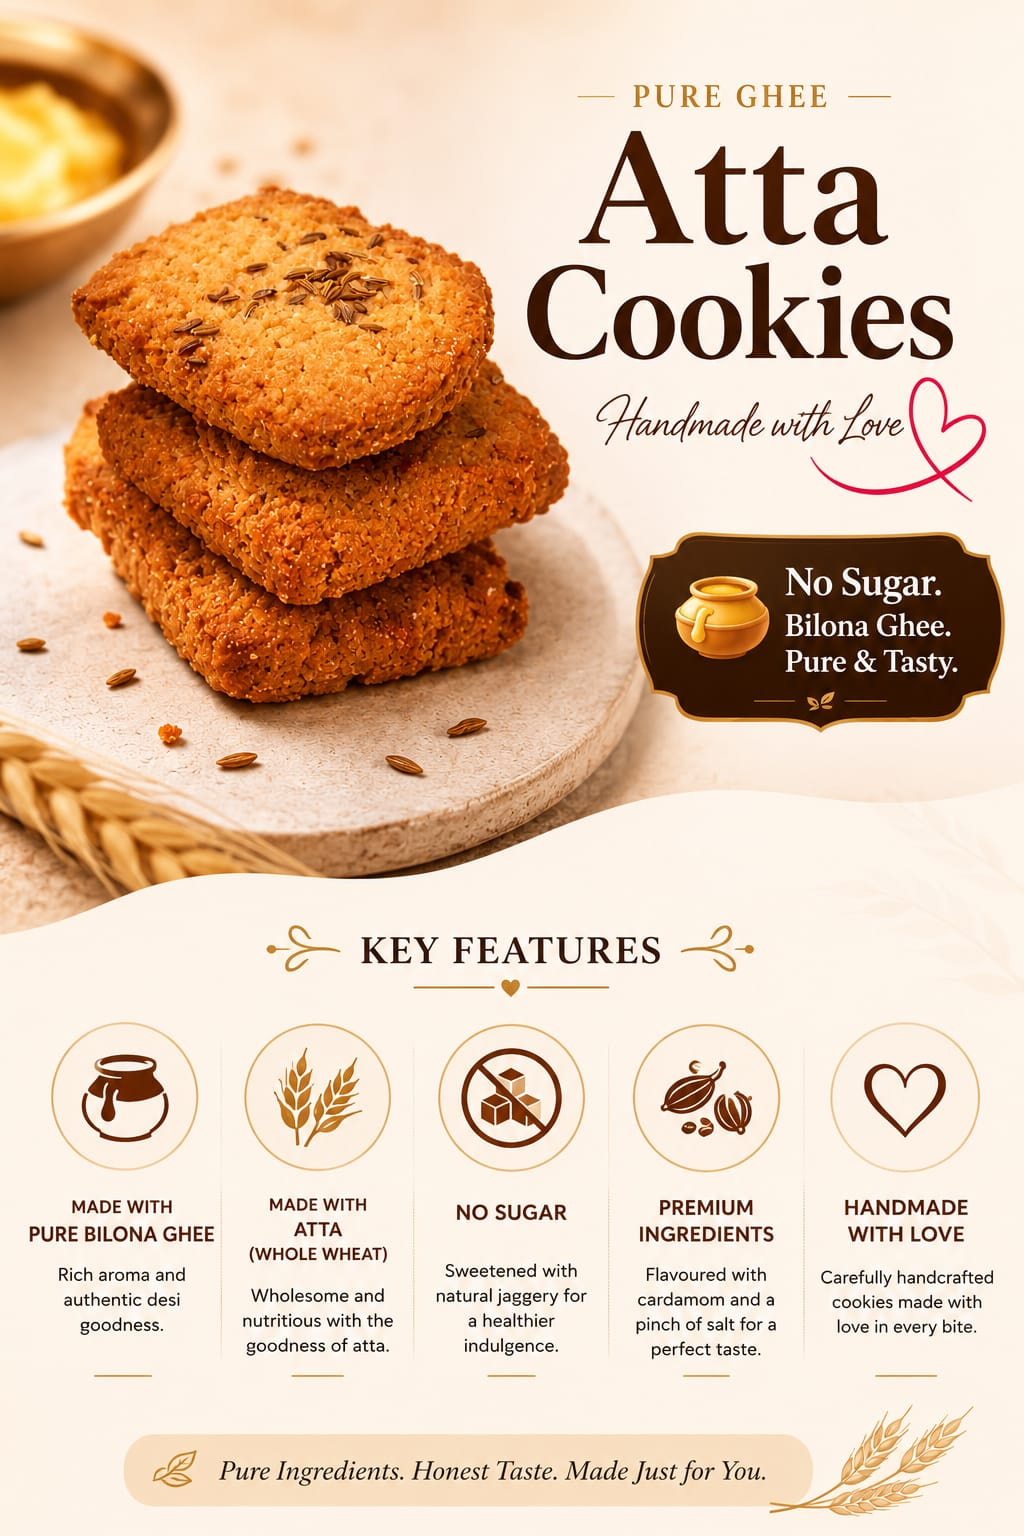
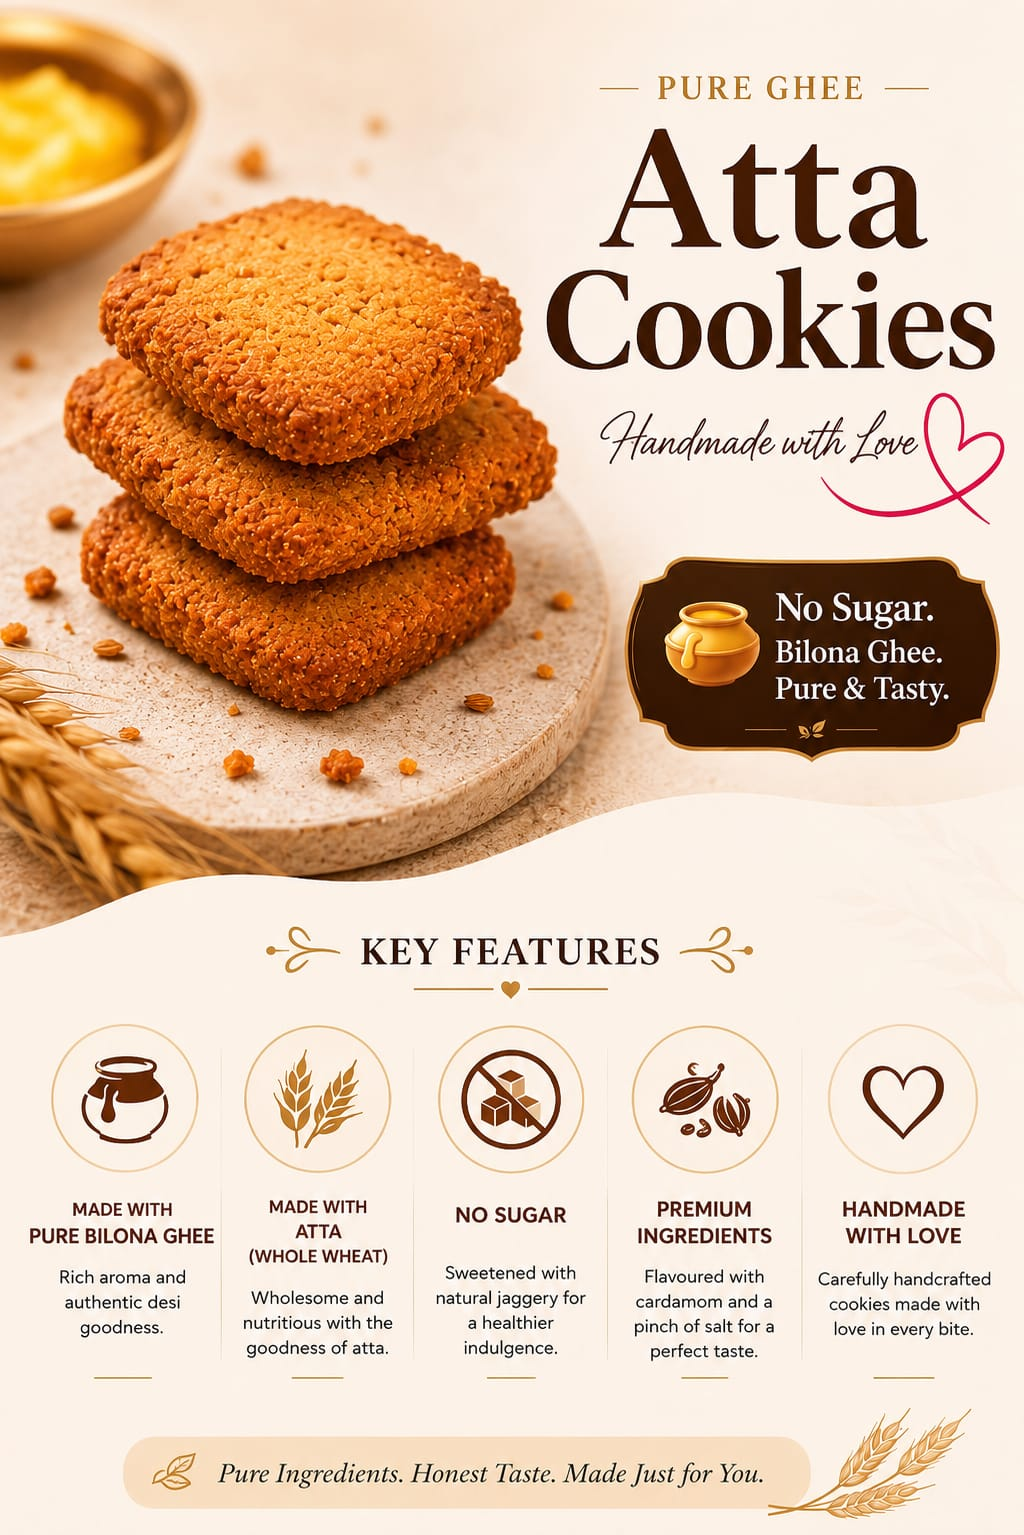
Update Atta cookies product images

diff --git a/PROJECT-STATE.md b/PROJECT-STATE.md
@@ -1,5 +1,5 @@
 # CaneCreme — Project State
-> Last updated: Session 80 fixed admin UTC order timestamp parsing (2026-06-26)
+> Last updated: Session 82 replaced live Atta Cookies JPG asset contents from new user JPEGs (2026-07-09)
 > Rule: Every agent MUST update this file before context fills. No assumptions. No hallucinations. Only verified facts.
 
 ---
@@ -409,7 +409,7 @@ How to add product images correctly:
 | Beet Bites | cf3d5ba7-177f-4033-9ab4-598201bf6cfd | beet-bites-1 → 4 (4 images) | ₹149 |
 | Broccoli Bites | 2df1da36-c102-46a6-8f30-cf169499cf71 | broccoli-bites-1 → 4 (4 images) | ₹149 |
 | Soya Bites | 863f3532-45f8-4c1b-bcfb-2bdb27d05c96 | soya-bites-1 → 4 (4 images) | (check DB) |
-| Pure Ghee Atta Cookies | a494afdd-6bff-44a0-9913-6615badba224 | atta-cookies-1 → 4 (4 images) | ₹229 |
+| Pure Ghee Atta Cookies | a494afdd-6bff-44a0-9913-6615badba224 | public override now uses atta-cookies-2.jpeg and atta-cookies-3.jpeg; older DB may still reference atta-cookies-1 → 4 | ₹229 |
 | Powerbite Multigrain Cookies | 7caa3e8d-6ab3-4fe9-878f-3e4f9a882109 | powerbite-1 → 4 (4 images) | ₹275 |
 | Chocochip Oatmeal Cookies | ec95d67c-5f95-4392-a127-f295dd071ea4 | chocochip-1 → 4 (4 images) | ₹275 |
 
@@ -418,6 +418,7 @@ How to add product images correctly:
 - broccoli-bites-1.jpg → broccoli-bites-4.jpg
 - soya-bites-1.jpg → soya-bites-4.jpg
 - atta-cookies-1.jpg → atta-cookies-4.jpg
+- atta-cookies-2.jpeg and atta-cookies-3.jpeg — new Pure Ghee Atta Cookies public website images added locally on 2026-07-09; `js/products.js`, `product.html`, and cart suggestions override this product by exact name to use these two assets.
 - powerbite-1.jpg → powerbite-4.jpg
 - chocochip-1.jpg → chocochip-4.jpg
 - galeto-1.jpeg, galeto-2.jpeg, galeto-3.jpeg (JPEG format)
@@ -579,3 +580,5 @@ How to add product images correctly:
 | Session 78 | 2026-06-26 | User reported Mohini did not receive order email at `[email redacted]`. Read live orders through `admin-orders`; Mohini order `163c21fe-a549-45da-9a9b-947f738f3cbf` had correct real email and COD/processing status. Manually resent order confirmation through `send-order-email`; Resend accepted it with email ID `28ea2976-66aa-4cda-ad91-9fc123567019`, sent to Mohini and BCC `[email redacted]`. Hardened `confirm-cod-order` and `confirm-paid-order` with `sendOrderEmailWithRetry` helper so automatic order emails retry up to 3 times before returning. Redeployed both confirmation functions to Supabase project `qfphvsyidbyhbyeyigrh`. |
 | Session 79 | 2026-06-26 | User requested checkout email no longer be optional after mobile lookup auto-filled details. Published the local Smart Checkout work plus mandatory email correction: `checkout.html` now opens the Email/city details disclosure, labels email as required, adds `required` to `#c-email`, and cache-busts to `js/checkout.js?v=15`; `js/checkout.js` now requires a real email before creating the order, rejects invalid email with clear copy, removes the fake `customer-{phone}@canecreme.co` fallback, and validates/fills city/state before saving the order. Verified `js/checkout.js` syntax with bundled Node. |
 | Session 80 | 2026-06-26 | User reported Kshitiz Kashyap order showed `04:28` in admin despite being placed around 22:00 IST. Live `admin-orders` data showed raw `created_at` as `2026-06-26T16:28:58.685308`, a UTC timestamp without timezone suffix. Fixed `js/admin.js` with `parseOrderCreatedAt()` so timestamps without `Z`/offset are treated as UTC before formatting in `Asia/Kolkata`; date filters now use the same parser. Verified Kshitiz timestamp formats as `26 Jun 2026, 09:58 pm IST`. Cache-busted admin script to `js/admin.js?v=11`. |
+| Session 81 | 2026-07-09 | User provided/read new Atta cookie assets `Assets/atta-cookies-2.jpeg` and `Assets/atta-cookies-3.jpeg` and asked to replace the website image as per product name. Added public product image overrides for exact product name `Pure Ghee Atta Cookies` in `js/products.js` (shop/home product cards) and `product.html` (product detail gallery), updated `js/cart.js` suggestions to use the same display image, changed homepage gallery Atta Cookies images from old `atta-cookies-1.jpg` to the two new `.jpeg` files, cache-busted `js/products.js?v=2` on index/shop and `js/cart.js?v=4` on index/shop/product. Verified `js/products.js` and `js/cart.js` syntax with bundled Node. Changes are LOCAL ONLY and not pushed yet. |
+| Session 82 | 2026-07-09 | User showed live `canecreme.co/product.html?id=a494afdd-6bff-44a0-9913-6615badba224` still displaying old Atta Cookies images. Verified live product is still driven by Supabase image URLs using tracked `.jpg` filenames, so copied the new user assets into those existing live paths: `Assets/atta-cookies-2.jpeg` → `Assets/atta-cookies-2.jpg` and `Assets/atta-cookies-3.jpeg` → `Assets/atta-cookies-3.jpg`. This is the minimal live fix because it keeps existing Supabase product image URLs working. |